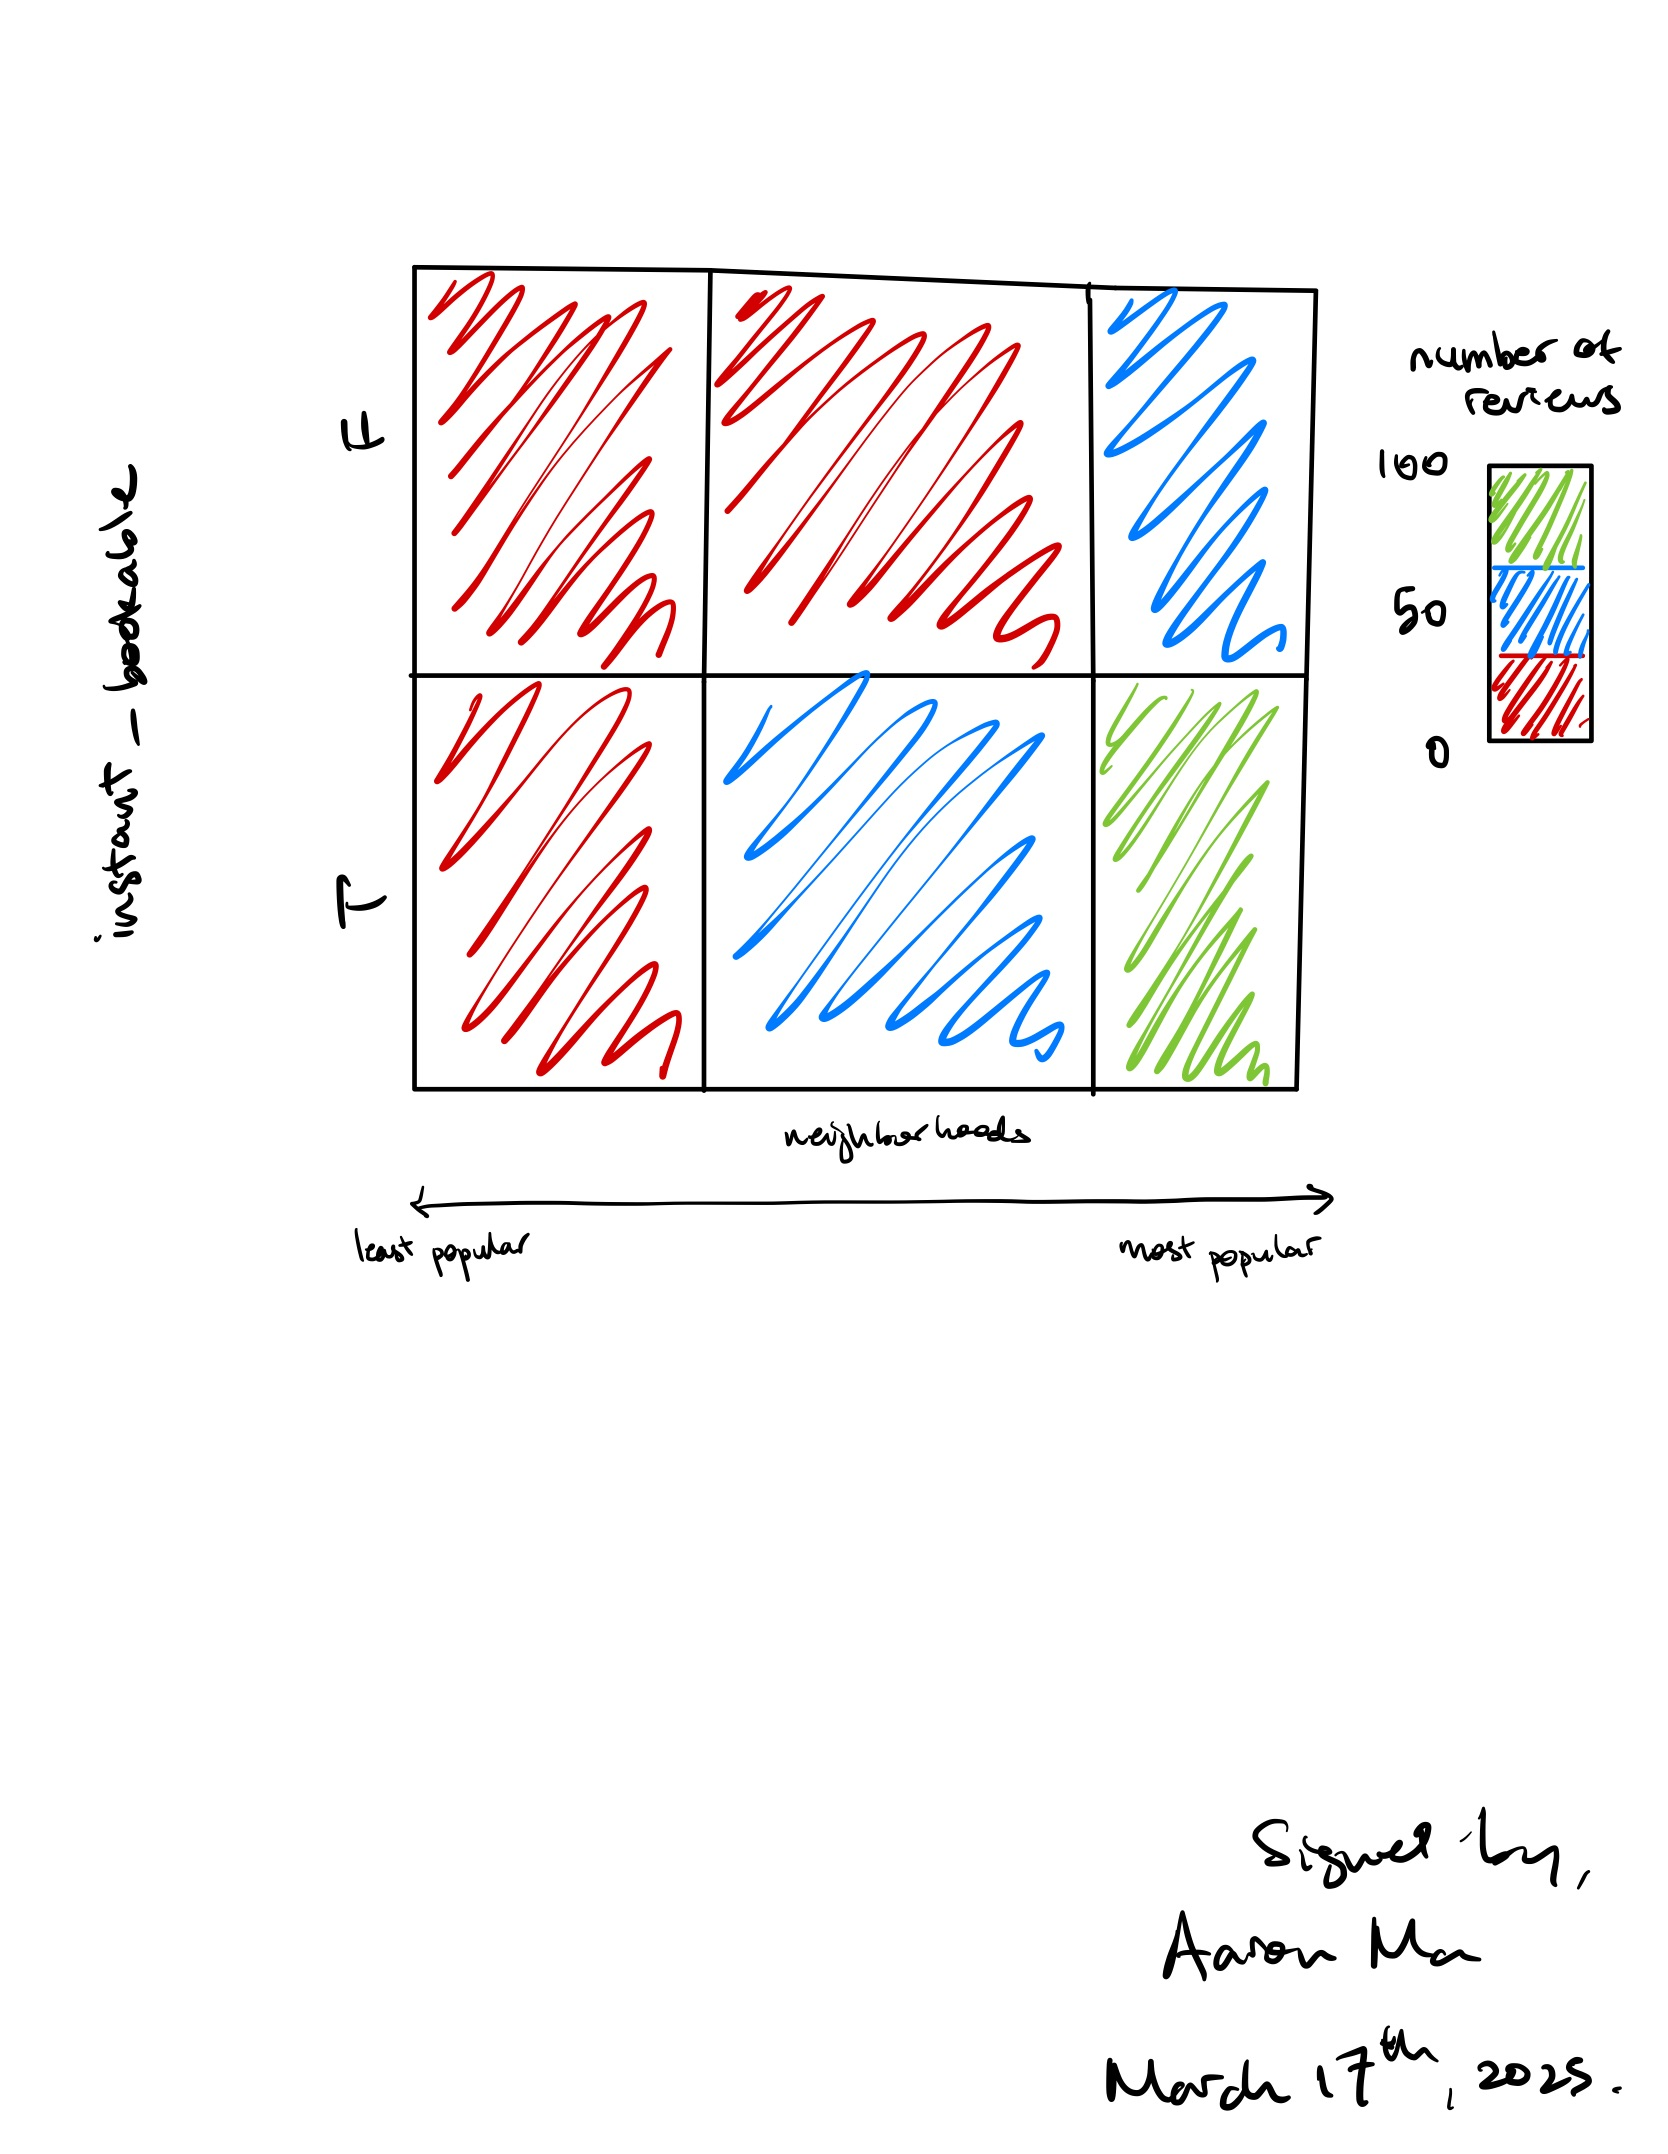
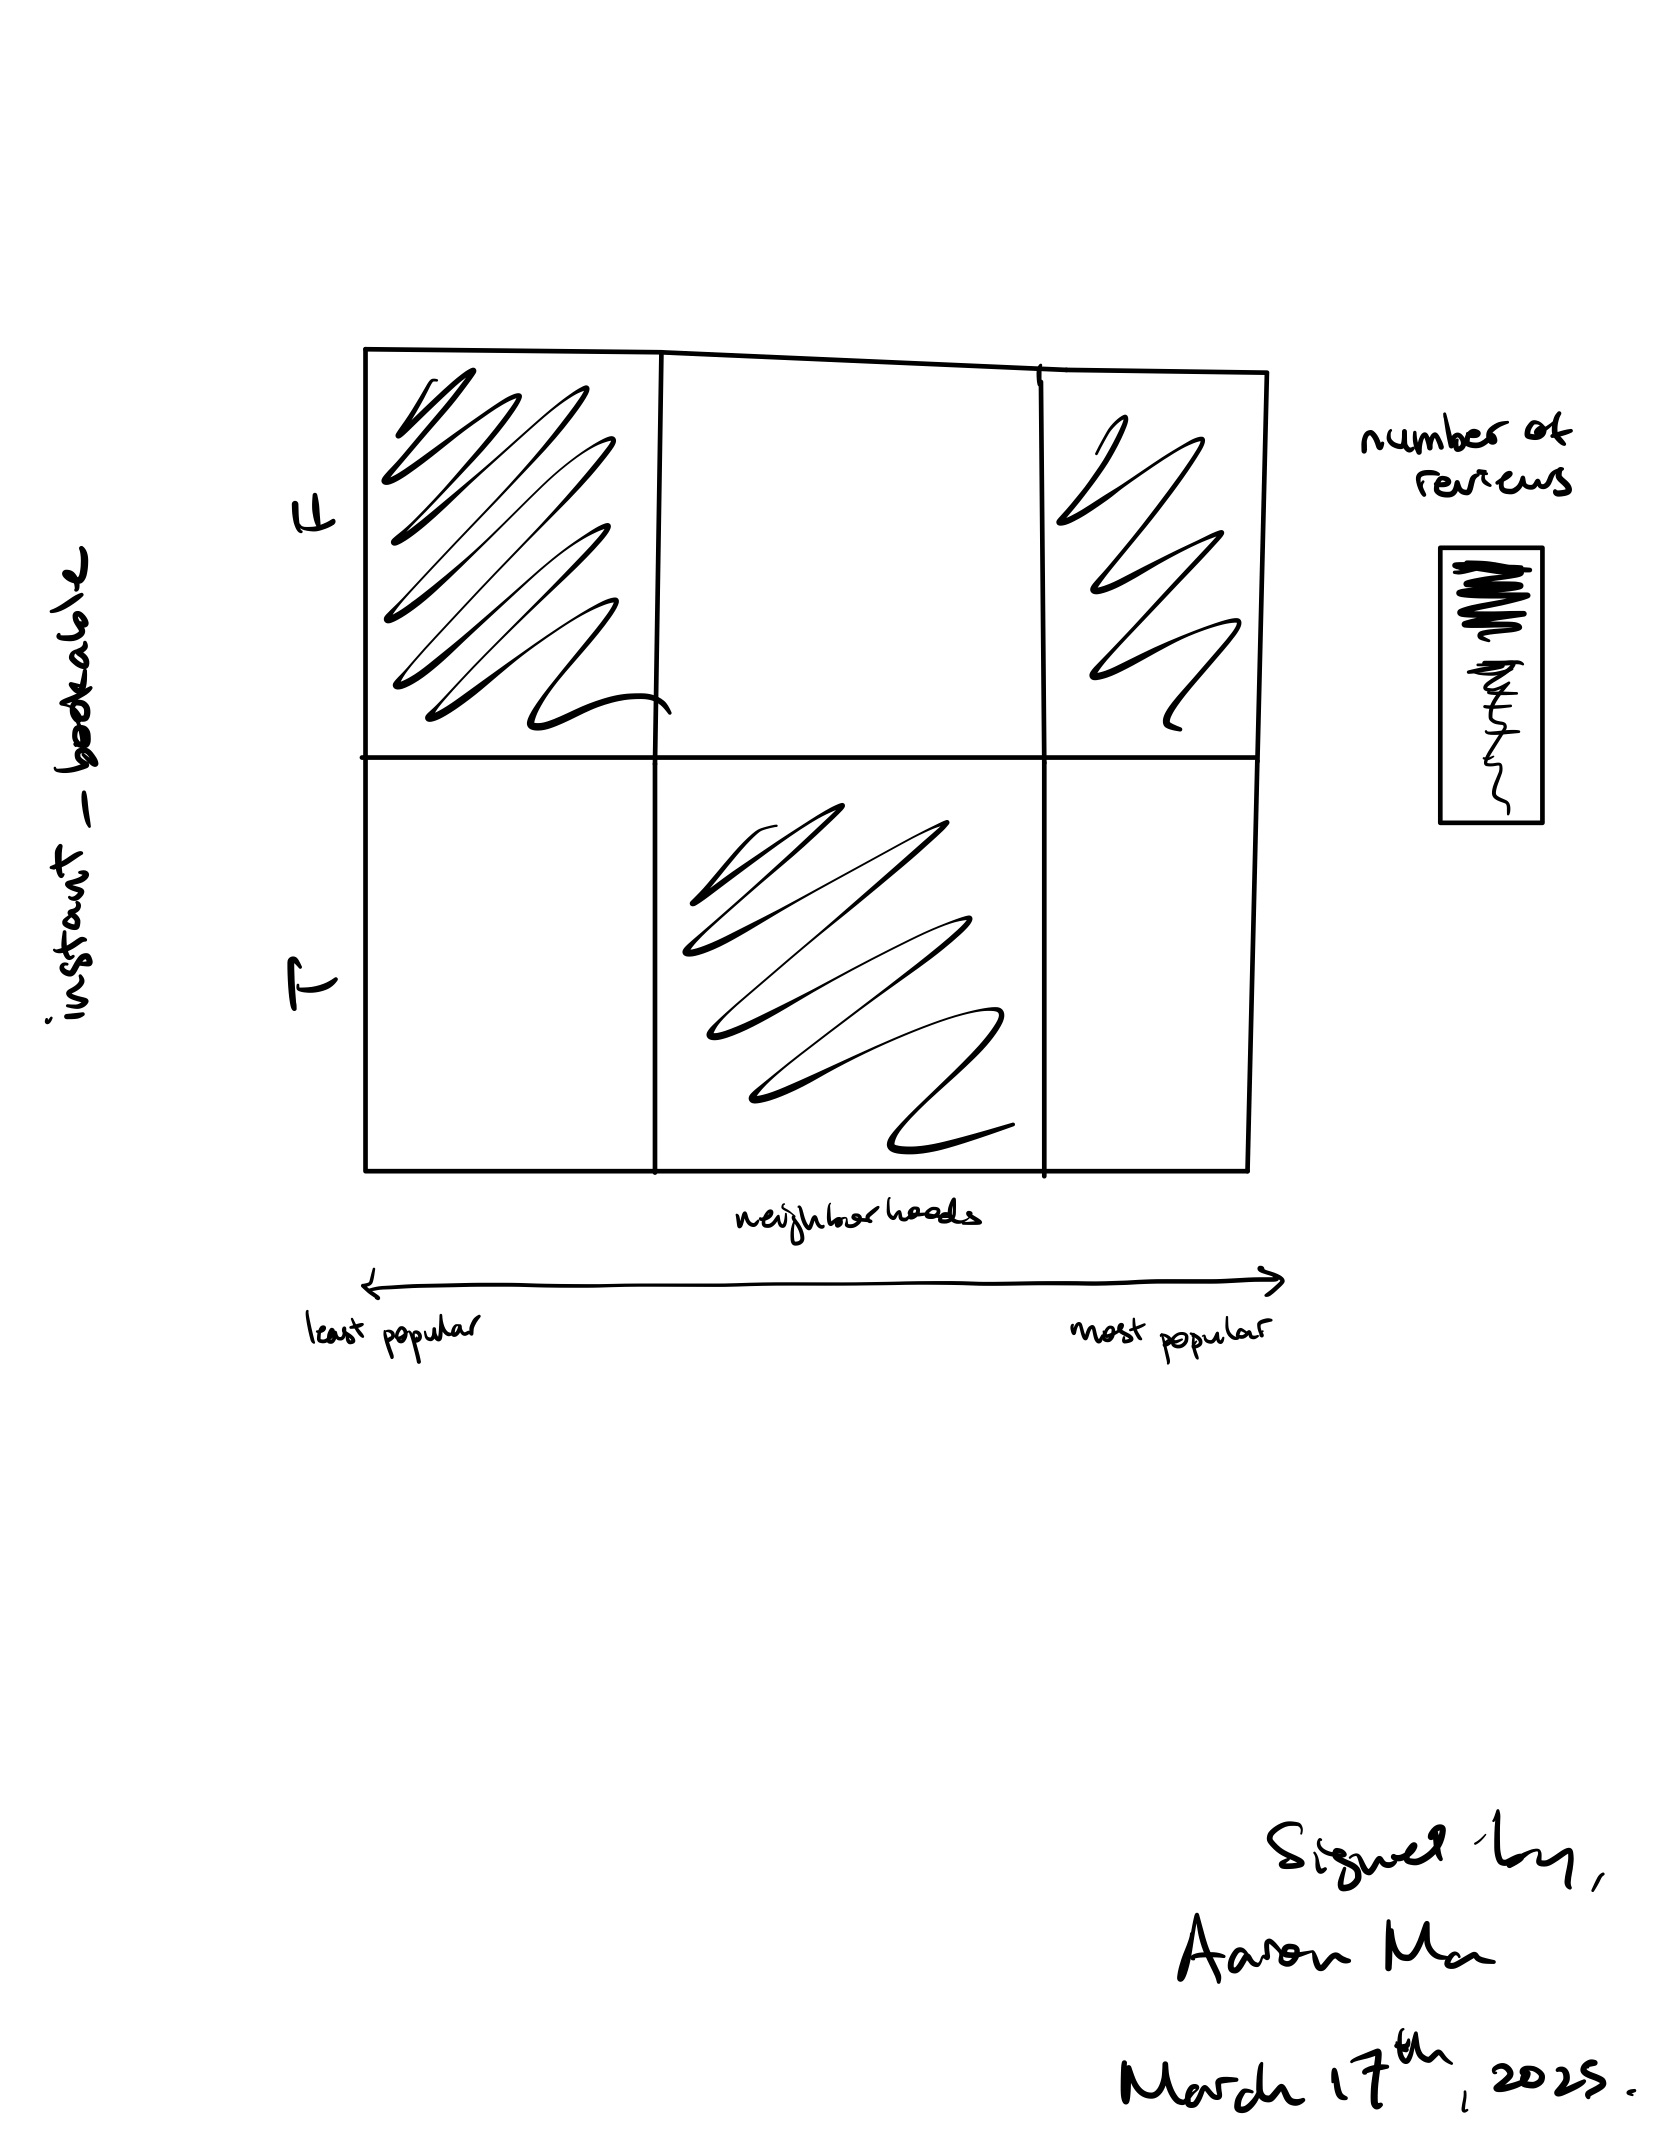
added prelim sketches and critiques to report

diff --git a/report/PM2.md b/report/PM2.md
@@ -1176,6 +1176,88 @@ The Cleveland dot plot aligns well with effective visualization principles by mi
 ---
 ### Aaron 
 
+#### Q1) What role does instant-bookability serve as an incentive booster for less popular neighbourhoods?
+<p align="center">
+    <img src="../images/prelim_sketches/Aaron/1-1.jpg" width="500px">
+</p>
+
+**Option 1.** The boxplot shows the mean and quartile values for number of reviews per neighbourhood group. A downside of this is the outliers in the dataset, making quartile ranges hard to compare and evaluate.
+
+
+<p align="center">
+    <img src="../images/prelim_sketches/Aaron/1-2.jpg" width="500px">
+</p>
+
+**Option 2.** The heatmap may be a bit tough to determine exact values when it comes to number of reviews just through the encoding of color. With the low fidelity shading and use of opacity, comparisons would be hard to make when comparing number of reviews per neighbourhood and bookability status.
+
+<p align="center">
+    <img src="../images/prelim_sketches/Aaron/1-3.jpg" width="500px">
+</p>
+
+**Option 3.** The scatterplots with trendlines show the relationship of number of reviews and price, faceted by neighbourhood group. A critique of this would be the difficulty with making comparisons with faceted plots far away from each other like Manhattan and Queens.
+
+<p align="center">
+    <img src="../images/prelim_sketches/Aaron/1-HF.jpg" width="500px">
+</p>
+
+The heatmaps was chosen as the final visualization as the goal in highlight large difference and patterns is key. The inclusion of color and annotated scale of neighbourhood popularity is also helpful in guiding the viewer in being able to pinpoint select groups and areas to focus on.
+
+
+#### Q2) Is there a difference in host behavior (host identity verified, calculated host listings count) by location?
+<p align="center">
+    <img src="../images/prelim_sketches/Aaron/2-1.jpg" width="500px">
+</p>
+
+**Option 1.** A critique of this would be the lack of precision for stacked groups, while large differences can be made out, smaller differences would be harder to point out.
+
+
+<p align="center">
+    <img src="../images/prelim_sketches/Aaron/2-2.jpg" width="500px">
+</p>
+
+**Option 2.** A critique of this geomap of NYC, would be the clutter that would come with annotations and only relying on them for information indication. Other pieces of encoding would assist in the depiction of the data.
+
+<p align="center">
+    <img src="../images/prelim_sketches/Aaron/2-3.jpg" width="500px">
+</p>
+
+**Option 3.** The use of color as a encoding for numerical data may make it hard to make exact comparisons and be able to see subtle differences between faceted plots that are far away from each other.
+
+<p align="center">
+    <img src="../images/prelim_sketches/Aaron/2-HF.jpg" width="500px">
+</p>
+
+The geomap was chosen as it is an extremely effective representation of location. The annotations as popups to depict information with the addition of color to highlight and segment neighbourhood groups help organize the visualization to either make intra or inter neighbourhood group comparisons.
+
+
+#### Q3) Is it 'easier' to be a superhost compared to typical hosts in terms of host behavior and pricing in certain locations?
+<p align="center">
+    <img src="../images/prelim_sketches/Aaron/3-1.jpg" width="500px">
+</p>
+
+**Option 1.** Comparisons would be hard to make between faceted groups of neighbour group, while density may be a hard metric to instinctively compare.
+
+
+<p align="center">
+    <img src="../images/prelim_sketches/Aaron/3-2.jpg" width="500px">
+</p>
+
+**Option 2.** Same critique as the last faceted scatterplot, comparisons between far apart faceted plots will be hard to make, especially with the two line encoding for color.
+
+
+<p align="center">
+    <img src="../images/prelim_sketches/Aaron/3-3.jpg" width="500px">
+</p>
+
+**Option 3.** The repeated faceted heatmaps with different y axis’ may make things too cluttered for comparison and is too visually stimulating to be able to pinpoint specific comparisons.
+
+
+<p align="center">
+    <img src="../images/prelim_sketches/Aaron/3-HF.jpg" width="500px">
+</p>
+
+The heatmaps was chosen as the final visualization as the heatmap as it is effective is demonstrating large patterns. In addition, due to the inclusion of color to encode for host response rate, this will make differences more salient. 
+
 ---
 ### Ayuho 
 
